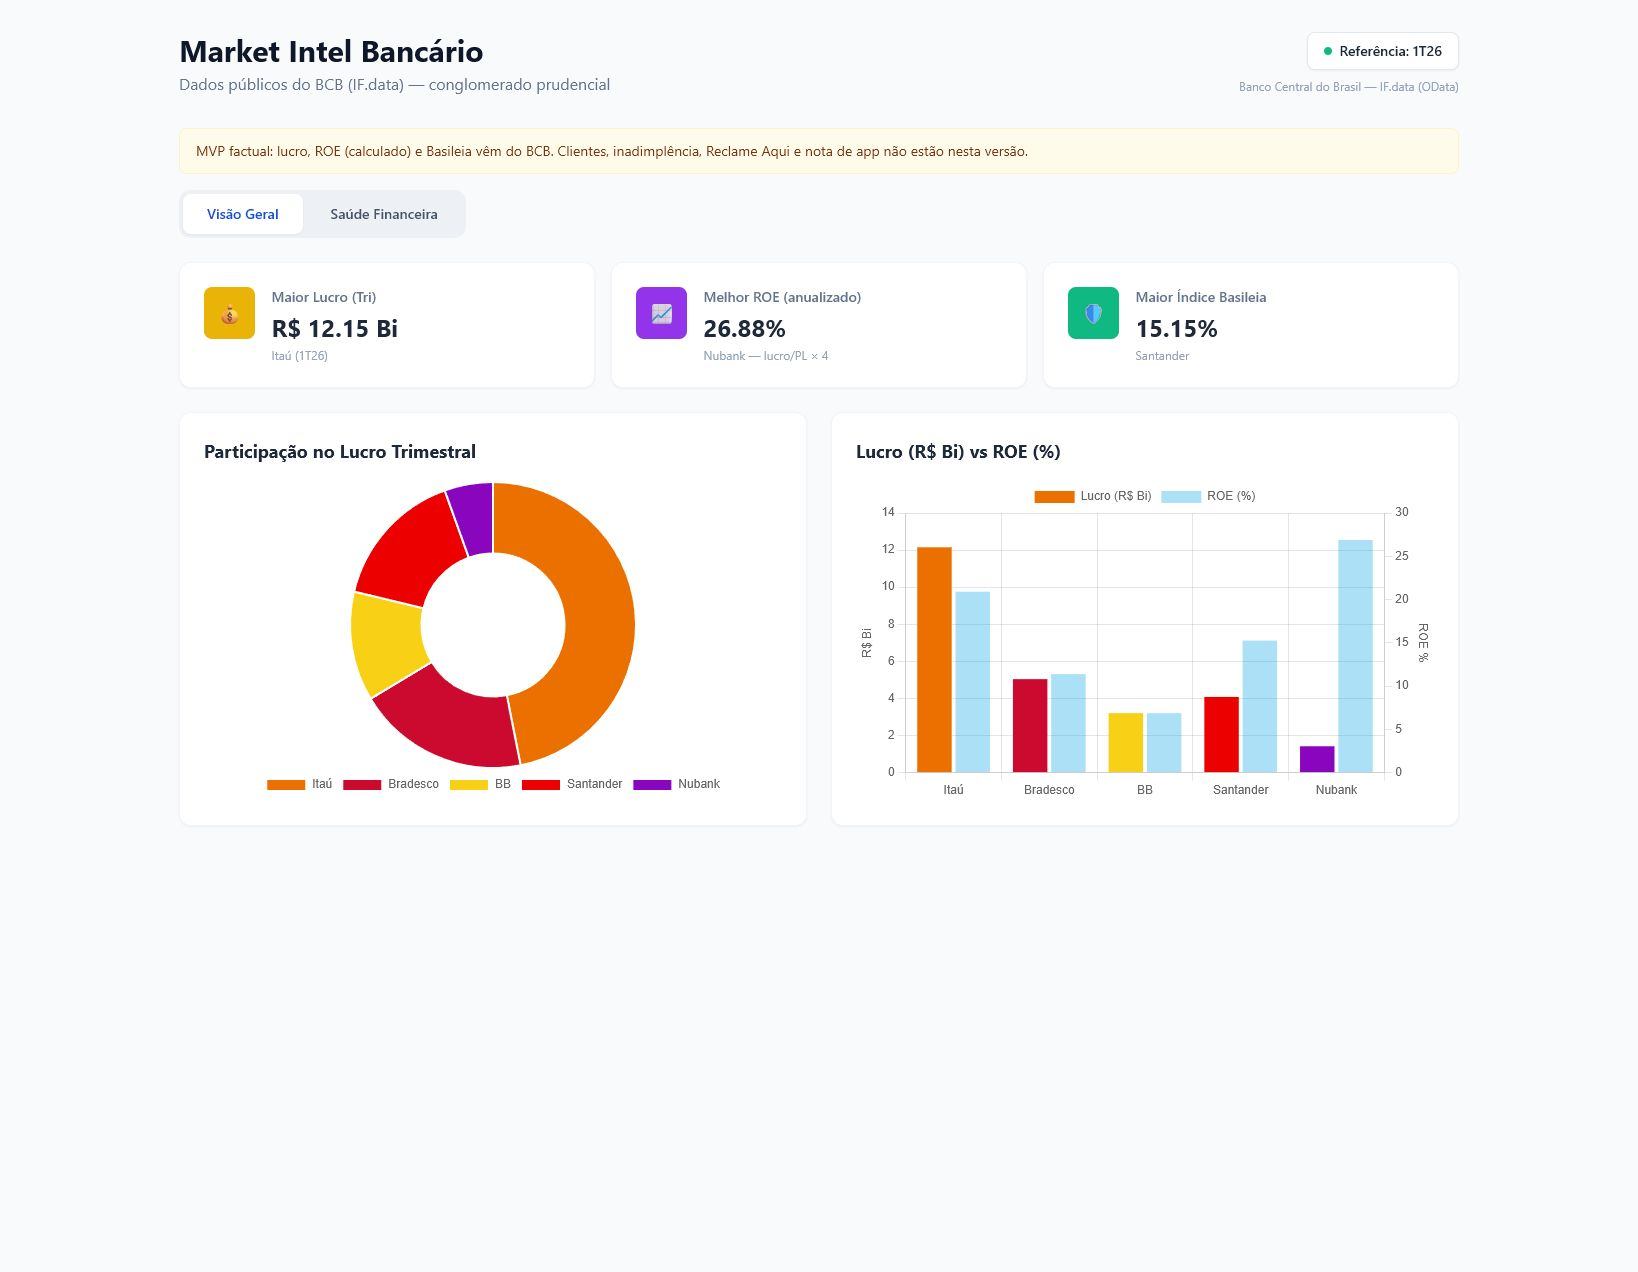
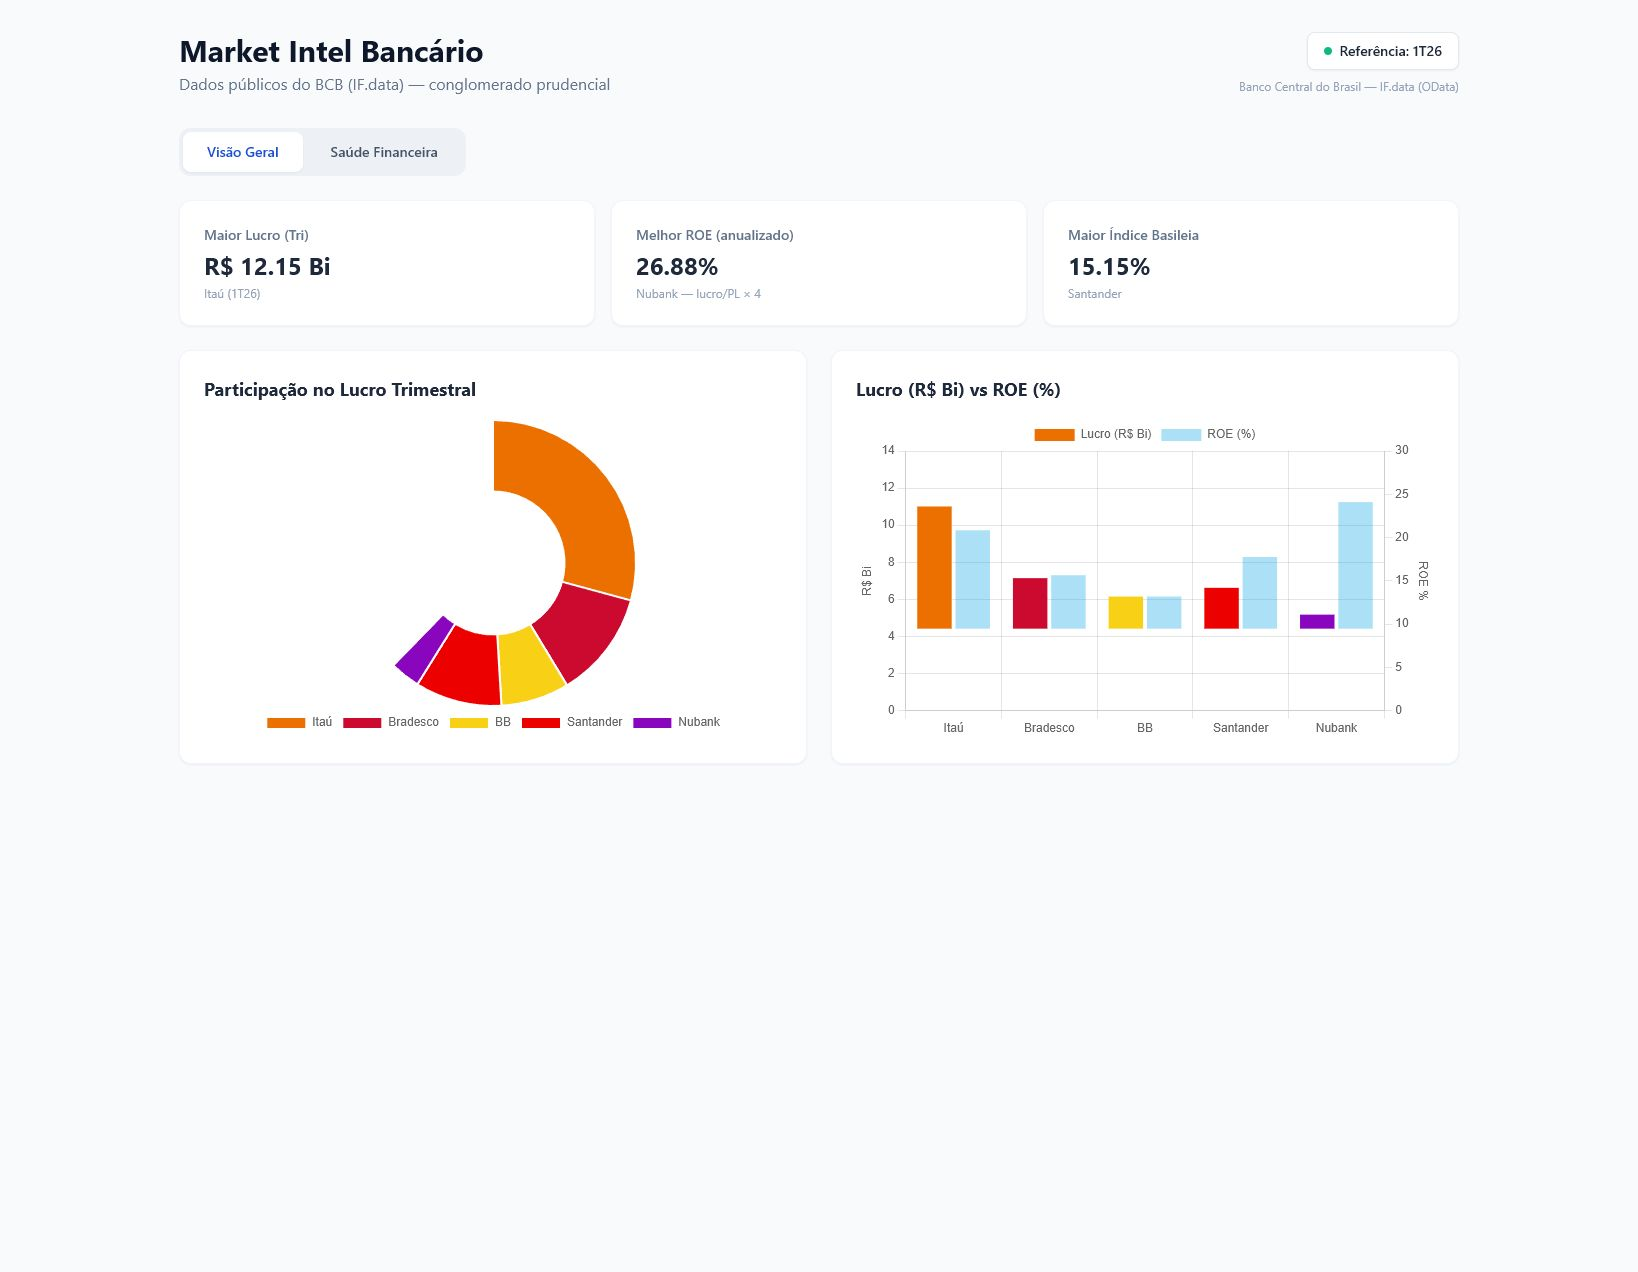
Refine project documentation and banking dashboard

diff --git a/bank-market-intel.js b/bank-market-intel.js
@@ -9,10 +9,9 @@ function destroyCharts() {
   Object.keys(charts).forEach((k) => delete charts[k]);
 }
 
-function kpiCard({ title, value, subtitle, icon, colorClass }) {
+function kpiCard({ title, value, subtitle }) {
   return `
-    <div class="bg-white rounded-xl shadow-sm border border-slate-100 p-6 flex items-start space-x-4">
-      <div class="p-3 rounded-lg ${colorClass} text-white text-xl">${icon}</div>
+    <div class="bg-white rounded-xl shadow-sm border border-slate-100 p-6">
       <div>
         <p class="text-sm font-medium text-slate-500 mb-1">${title}</p>
         <h3 class="text-2xl font-bold text-slate-800">${value}</h3>
@@ -73,12 +72,6 @@ function renderDashboard(meta, banks, history, activeTab = 'geral') {
         </div>
       </div>
 
-      <div class="max-w-7xl mx-auto mb-4">
-        <div class="bg-amber-50 border border-amber-100 text-amber-900 text-sm rounded-lg px-4 py-3">
-          MVP factual: lucro, ROE (calculado) e Basileia vêm do BCB. Clientes, inadimplência, Reclame Aqui e nota de app não estão nesta versão.
-        </div>
-      </div>
-
       <div class="max-w-7xl mx-auto mb-6">
         <div class="flex space-x-1 bg-slate-200/50 p-1 rounded-xl w-fit">
           <button id="tab-geral" class="${tabClass('geral')}">Visão Geral</button>
@@ -99,9 +92,9 @@ function renderDashboard(meta, banks, history, activeTab = 'geral') {
     content.innerHTML = `
       <div class="space-y-6">
         <div class="grid grid-cols-1 md:grid-cols-3 gap-4">
-          ${kpiCard({ title: 'Maior Lucro (Tri)', value: `R$ ${fmt(topLucro?.lucro)} Bi`, subtitle: `${topLucro?.name || '—'} (${meta.periodLabel})`, icon: '💰', colorClass: 'bg-yellow-500' })}
-          ${kpiCard({ title: 'Melhor ROE (anualizado)', value: fmt(topRoe?.roe, '%'), subtitle: `${topRoe?.name || '—'} — lucro/PL × 4`, icon: '📈', colorClass: 'bg-purple-600' })}
-          ${kpiCard({ title: 'Maior Índice Basileia', value: fmt(topBasileia?.basileia, '%'), subtitle: topBasileia?.name || '—', icon: '🛡️', colorClass: 'bg-emerald-500' })}
+          ${kpiCard({ title: 'Maior Lucro (Tri)', value: `R$ ${fmt(topLucro?.lucro)} Bi`, subtitle: `${topLucro?.name || '—'} (${meta.periodLabel})` })}
+          ${kpiCard({ title: 'Melhor ROE (anualizado)', value: fmt(topRoe?.roe, '%'), subtitle: `${topRoe?.name || '—'} — lucro/PL × 4` })}
+          ${kpiCard({ title: 'Maior Índice Basileia', value: fmt(topBasileia?.basileia, '%'), subtitle: topBasileia?.name || '—' })}
         </div>
         <div class="grid grid-cols-1 lg:grid-cols-2 gap-6">
           <div class="bg-white p-6 rounded-xl shadow-sm border border-slate-100">

diff --git a/bank_market_intel/frontend/app.js b/bank_market_intel/frontend/app.js
@@ -9,10 +9,9 @@ function destroyCharts() {
   Object.keys(charts).forEach((k) => delete charts[k]);
 }
 
-function kpiCard({ title, value, subtitle, icon, colorClass }) {
+function kpiCard({ title, value, subtitle }) {
   return `
-    <div class="bg-white rounded-xl shadow-sm border border-slate-100 p-6 flex items-start space-x-4">
-      <div class="p-3 rounded-lg ${colorClass} text-white text-xl">${icon}</div>
+    <div class="bg-white rounded-xl shadow-sm border border-slate-100 p-6">
       <div>
         <p class="text-sm font-medium text-slate-500 mb-1">${title}</p>
         <h3 class="text-2xl font-bold text-slate-800">${value}</h3>
@@ -73,12 +72,6 @@ function renderDashboard(meta, banks, history, activeTab = 'geral') {
         </div>
       </div>
 
-      <div class="max-w-7xl mx-auto mb-4">
-        <div class="bg-amber-50 border border-amber-100 text-amber-900 text-sm rounded-lg px-4 py-3">
-          MVP factual: lucro, ROE (calculado) e Basileia vêm do BCB. Clientes, inadimplência, Reclame Aqui e nota de app não estão nesta versão.
-        </div>
-      </div>
-
       <div class="max-w-7xl mx-auto mb-6">
         <div class="flex space-x-1 bg-slate-200/50 p-1 rounded-xl w-fit">
           <button id="tab-geral" class="${tabClass('geral')}">Visão Geral</button>
@@ -99,9 +92,9 @@ function renderDashboard(meta, banks, history, activeTab = 'geral') {
     content.innerHTML = `
       <div class="space-y-6">
         <div class="grid grid-cols-1 md:grid-cols-3 gap-4">
-          ${kpiCard({ title: 'Maior Lucro (Tri)', value: `R$ ${fmt(topLucro?.lucro)} Bi`, subtitle: `${topLucro?.name || '—'} (${meta.periodLabel})`, icon: '💰', colorClass: 'bg-yellow-500' })}
-          ${kpiCard({ title: 'Melhor ROE (anualizado)', value: fmt(topRoe?.roe, '%'), subtitle: `${topRoe?.name || '—'} — lucro/PL × 4`, icon: '📈', colorClass: 'bg-purple-600' })}
-          ${kpiCard({ title: 'Maior Índice Basileia', value: fmt(topBasileia?.basileia, '%'), subtitle: topBasileia?.name || '—', icon: '🛡️', colorClass: 'bg-emerald-500' })}
+          ${kpiCard({ title: 'Maior Lucro (Tri)', value: `R$ ${fmt(topLucro?.lucro)} Bi`, subtitle: `${topLucro?.name || '—'} (${meta.periodLabel})` })}
+          ${kpiCard({ title: 'Melhor ROE (anualizado)', value: fmt(topRoe?.roe, '%'), subtitle: `${topRoe?.name || '—'} — lucro/PL × 4` })}
+          ${kpiCard({ title: 'Maior Índice Basileia', value: fmt(topBasileia?.basileia, '%'), subtitle: topBasileia?.name || '—' })}
         </div>
         <div class="grid grid-cols-1 lg:grid-cols-2 gap-6">
           <div class="bg-white p-6 rounded-xl shadow-sm border border-slate-100">

diff --git a/bank_market_intel/backend/main.py b/bank_market_intel/backend/main.py
@@ -51,12 +51,6 @@ async def meta() -> dict:
         "scope": "Conglomerado prudencial (TipoInstituicao=1)",
         "supportedMetrics": ["lucro", "roe", "basileia", "historicoLucro"],
         "lucroNote": "Lucro trimestral isolado; 2T e 4T do IF.data são acumulados semestrais e são normalizados automaticamente",
-        "unsupportedMetrics": {
-            "clientes": "Sem série pública comparável por API",
-            "inadimplencia": "Relatórios de crédito descontinuados/instáveis no IF.data",
-            "reclameAqui": "Sem API oficial",
-            "appRating": "Requer API das lojas (não incluído no MVP)",
-        },
         "banks": [cfg["name"] for cfg in BANKS.values()],
     }
 
@@ -80,7 +74,7 @@ async def banks_current(period: int | None = None) -> dict:
 @app.get("/api/banks/history")
 async def banks_history(metric: str = "lucro") -> dict:
     if metric != "lucro":
-        raise HTTPException(status_code=400, detail="Métrica não suportada no MVP")
+        raise HTTPException(status_code=400, detail="Métrica não suportada")
 
     periods = quarter_periods_up_to(await fetch_latest_available_period(), HISTORY_START)
 

diff --git a/bank_market_intel/backend/bcb_client.py b/bank_market_intel/backend/bcb_client.py
@@ -110,10 +110,6 @@ async def fetch_bank_snapshot(period: int, bank_key: str, bank_cfg: dict[str, st
         "lucro": lucro,
         "roe": roe,
         "basileia": round(basileia * 100, 2) if basileia is not None else None,
-        "inadimplencia": None,
-        "clientes": None,
-        "appRating": None,
-        "reclameAqui": None,
         "source": "BCB IF.data (conglomerado prudencial, relatório Resumo)",
     }
 

diff --git a/revenue_iq/README.md b/revenue_iq/README.md
@@ -1,67 +1,40 @@
-# RevenueIQ
+# RevenueIQ Backend
 
-Dashboard de inteligência de receita com dados simulados, cálculos determinísticos em Pandas e interpretação dos resultados por uma LLM hospedada na Groq.
+Backend analítico do RevenueIQ, um dashboard de inteligência de receita que combina cálculos determinísticos em Pandas com interpretação executiva por LLM.
 
-## Arquitetura
+## Fluxo de dados
 
-1. `data/revenue_data.csv` contém 2.402 transações simuladas e reproduzíveis.
-2. `api/analytics.py` aplica filtros e calcula KPIs, séries e evidências.
-3. `api/app.py` publica os endpoints FastAPI e chama a Groq quando há uma chave.
-4. O frontend `../revenue-ai-dashboard.html` consome a API.
-5. Sem chave ou quando a Groq está indisponível, a API retorna uma resposta demonstrativa baseada nos mesmos cálculos.
+1. `data/revenue_data.csv` fornece 2.402 transações simuladas e reproduzíveis.
+2. `api/analytics.py` valida o schema, aplica filtros e calcula KPIs, séries mensais, rankings e concentração de receita.
+3. O backend monta um catálogo de evidências a partir dessas métricas calculadas.
+4. `api/app.py` envia para a Groq somente o contexto agregado e os identificadores de evidência disponíveis.
+5. A resposta estruturada da LLM é validada antes de ser devolvida ao dashboard. Se a resposta for inválida ou o provedor estiver indisponível, o backend gera uma análise determinística com os mesmos dados.
 
-## Instalação no Windows
+## API
 
-```powershell
-python -m venv .venv
-.\.venv\Scripts\python.exe -m pip install -r revenue_iq\requirements.txt
-```
+| Método | Endpoint | Responsabilidade |
+|---|---|---|
+| `GET` | `/api/health` | Informa o estado da API, volume carregado e disponibilidade da integração com a LLM. |
+| `GET` | `/api/dashboard` | Retorna KPIs, séries e dimensões para os filtros de segmento, região e período. |
+| `POST` | `/api/analyze` | Responde a uma pergunta executiva e vincula a resposta às evidências calculadas. |
 
-## Configuração da Groq
+O endpoint de análise aceita uma pergunta e os filtros ativos do dashboard. A resposta segue um contrato com `answer`, `evidence`, `confidence` e `mode`, permitindo que o frontend diferencie respostas da Groq, demonstrações locais e fallbacks.
 
-Configure a chave com entrada mascarada:
+## Componentes
 
-```powershell
-powershell -ExecutionPolicy Bypass -File revenue_iq\configure_groq.ps1
-```
+- `api/app.py`: endpoints FastAPI, modelos de entrada e saída, integração com a Groq e controle de requisições.
+- `api/analytics.py`: transformações Pandas, filtros, KPIs e geração do catálogo de evidências.
+- `data/revenue_data.csv`: base simulada usada pelo motor analitico.
+- `tests/`: testes dos calculos, filtros e contratos principais da API.
 
-O script cria `revenue_iq/.env` com esta estrutura:
+## Decisões técnicas
 
-```text
-GROQ_API_KEY=sua_chave_local
-GROQ_MODEL=llama-3.3-70b-versatile
-```
+- Os indicadores financeiros são calculados antes da chamada à LLM.
+- O prompt usa contexto JSON estruturado e temperatura baixa para reduzir variação.
+- A LLM seleciona apenas evidências existentes no catálogo produzido pelo backend.
+- Filtros são normalizados no servidor para manter o dashboard e a análise consistentes.
+- CORS, limite de tamanho da pergunta e rate limiting protegem a API publica.
 
-O arquivo `.env` está ignorado pelo Git. Nunca coloque a chave no HTML, em commits ou em mensagens.
+## Stack
 
-## Execução
-
-```powershell
-powershell -ExecutionPolicy Bypass -File revenue_iq\run.ps1
-```
-
-Ou inicie os serviços separadamente:
-
-```powershell
-.\.venv\Scripts\python.exe -m uvicorn revenue_iq.api.app:app --host 127.0.0.1 --port 8000
-.\.venv\Scripts\python.exe -m http.server 8765 --bind 127.0.0.1
-```
-
-Dashboard: `http://127.0.0.1:8765/revenue-ai-dashboard.html`
-
-Documentação da API: `http://127.0.0.1:8000/docs`
-
-## Testes
-
-```powershell
-.\.venv\Scripts\python.exe -m unittest discover -s revenue_iq\tests -v
-```
-
-## Segurança da demonstração
-
-- A chave existe apenas no backend.
-- A pergunta possui limite de tamanho.
-- A API limita requisições por IP.
-- A LLM recebe métricas agregadas, não o CSV completo.
-- Evidências são selecionadas de um catálogo calculado pelo backend.
-- Respostas sem evidência válida são substituídas por um fallback seguro.
+Python, FastAPI, Pandas, Pydantic, HTTPX e Groq API.

diff --git a/bank_market_intel/README.md b/bank_market_intel/README.md
@@ -13,12 +13,6 @@ Dashboard com **dados reais** do [BCB IF.data](https://olinda.bcb.gov.br/olinda/
 
 Bancos: **Itaú, Bradesco, BB, Santander e Nubank** (conglomerado prudencial).
 
-## O que não está no MVP
-
-- Base de clientes / market share
-- Inadimplência (>90 dias) — relatórios de crédito instáveis no IF.data
-- Reclame Aqui e nota de app — sem API oficial gratuita
-
 ## Como rodar
 
 ```bash